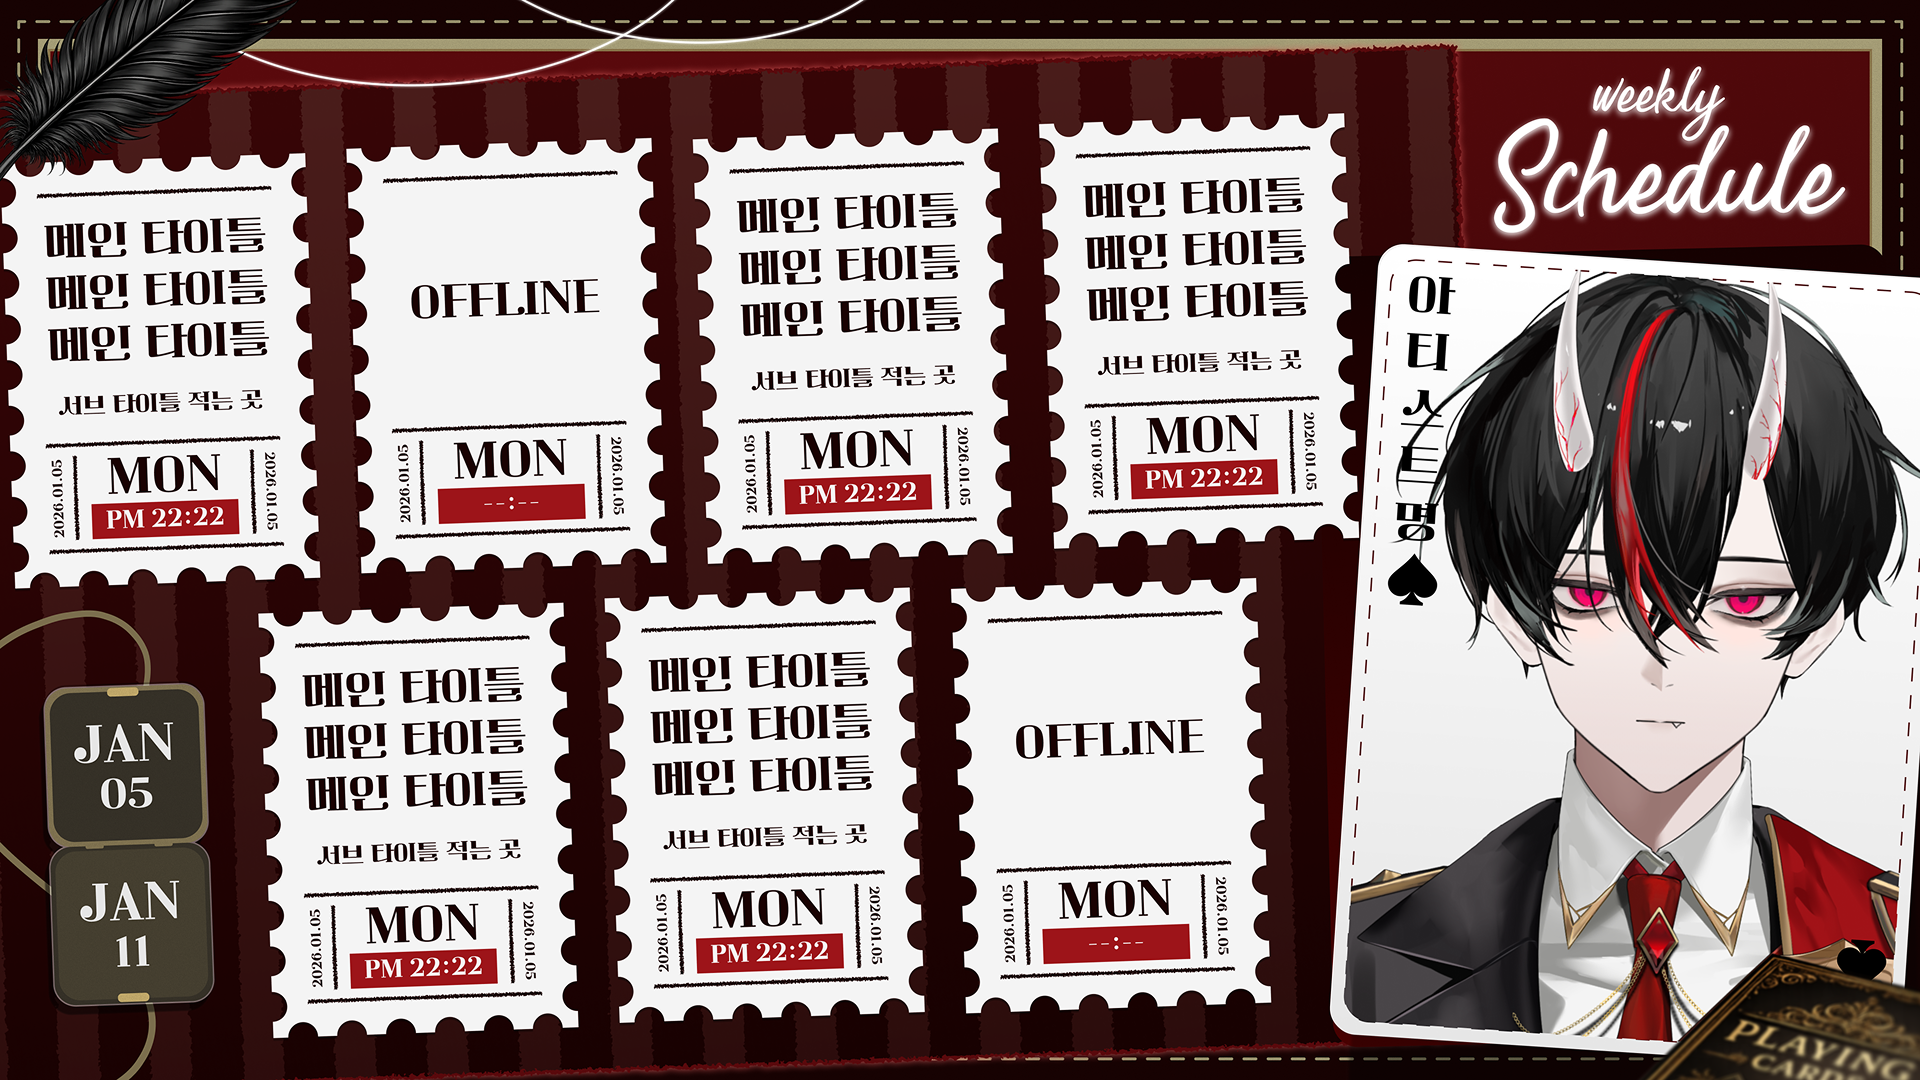
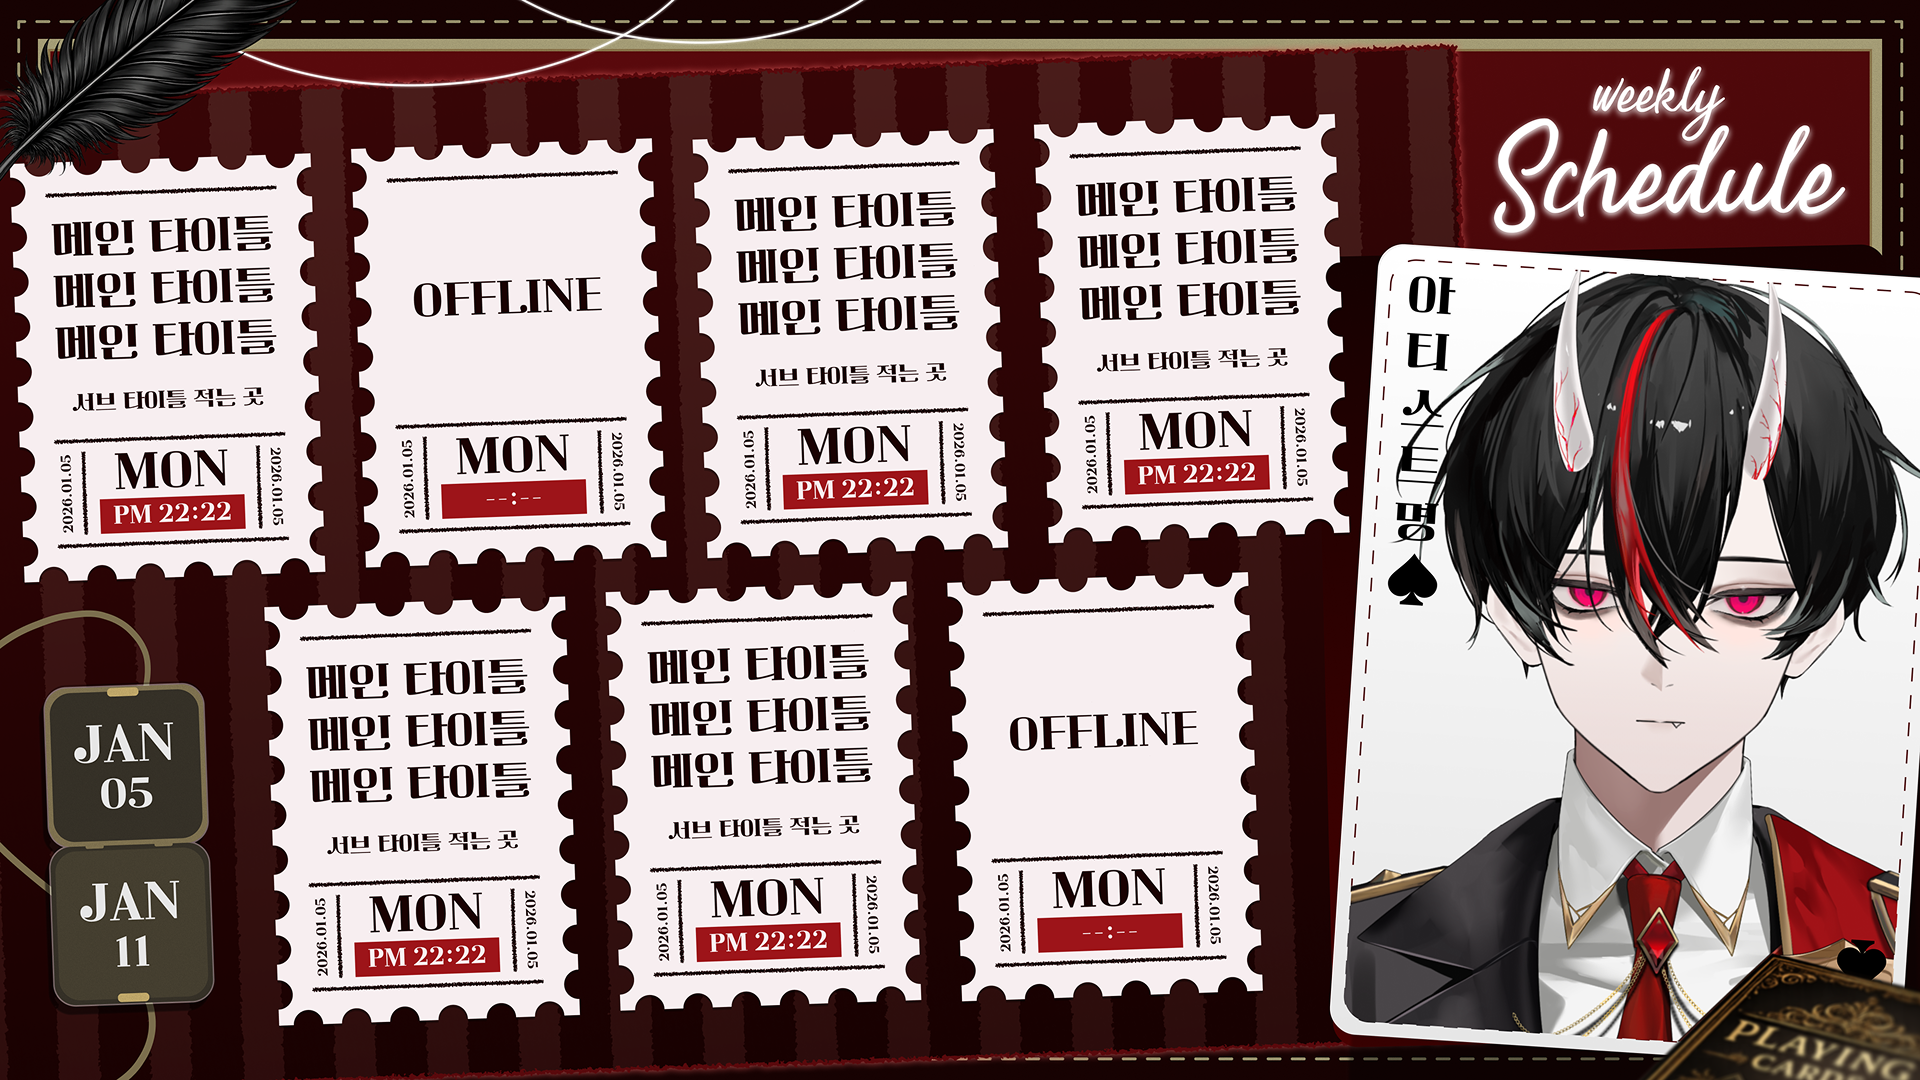
Feat: 수정

Changed region(s): [[0.0, 0.0917, 0.7188, 0.9778]]

diff --git a/src/app/(root)/time-table/ce939e19-d3ff-4f61-b47b-71dd38ce86cd/_components/TimeTableCell.tsx b/src/app/(root)/time-table/ce939e19-d3ff-4f61-b47b-71dd38ce86cd/_components/TimeTableCell.tsx
@@ -65,7 +65,7 @@ const StreamingDay = ({ currentTheme, day }: DayTextProps) => {
         color: colors[currentTheme || "first"]["primary"],
         width: 300,
         height: 120,
-        top: 592,
+        top: 584,
         left: 168,
       }}
       className="absolute flex justify-center items-center text-[96px]"
@@ -87,7 +87,7 @@ const StreamingDate = ({ date, currentTheme }: DateTextProps) => {
           fontFamily: fontOption.primary,
           fontSize: 26,
           rotate: "90deg",
-          top: 680,
+          top: 672,
           right: -24,
         }}
         className=" absolute flex justify-center items-center "
@@ -104,8 +104,8 @@ const StreamingDate = ({ date, currentTheme }: DateTextProps) => {
           fontFamily: fontOption.primary,
           fontSize: 26,
           rotate: "-90deg",
-          top: 680,
-          left: -24,
+          top: 672,
+          left: -22,
         }}
         className=" absolute flex justify-center items-center "
       >
@@ -132,7 +132,7 @@ const StreamingTime = ({
         color: colors[currentTheme || "first"]["secondary"],
         fontWeight: 500,
         fontSize: 48,
-        top: 710,
+        top: 702,
       }}
       className=" absolute flex justify-center items-center "
     >
@@ -193,7 +193,7 @@ const CellTextTitle = ({ cellTextTitle }: CellTextSubTitleProps) => {
           color: colors["first"]["primary"],
         }}
         className="leading-none text-center w-full"
-        maxFontSize={48}
+        maxFontSize={45}
       >
         {cellTextTitle ? (cellTextTitle as string) : placeholders.subTitle}
       </AutoResizeText>

diff --git a/src/app/(root)/time-table/ce939e19-d3ff-4f61-b47b-71dd38ce86cd/_settings/settings.ts b/src/app/(root)/time-table/ce939e19-d3ff-4f61-b47b-71dd38ce86cd/_settings/settings.ts
@@ -76,8 +76,8 @@ export const colors = {
 /** Online 카드 구성 */
 /** Online 카드 구성 */
 
-export const onlineCardWidth: number = 636;
-export const onlineCardHeight: number = 885;
+export const onlineCardWidth: number = 627;
+export const onlineCardHeight: number = 872;
 
 // 개발자 전용: 카드 입력 필드 구성
 // 이 부분만 수정하면 카드의 입력 필드가 변경됩니다

diff --git a/src/app/(root)/time-table/ce939e19-d3ff-4f61-b47b-71dd38ce86cd/_components/TimeTableGrid.tsx b/src/app/(root)/time-table/ce939e19-d3ff-4f61-b47b-71dd38ce86cd/_components/TimeTableGrid.tsx
@@ -22,8 +22,8 @@ const TimeTableGrid: React.FC<TimeTableGridProps> = ({
     <div
       className="absolute flex flex-col items-center z-20"
       style={{
-        top: 296,
-        left: 32,
+        top: 292,
+        left: 48,
         gap: 68,
         rotate: "-2deg",
       }}
